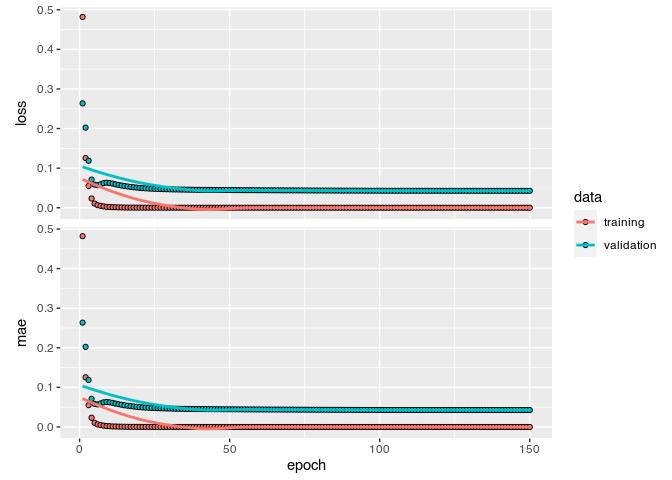
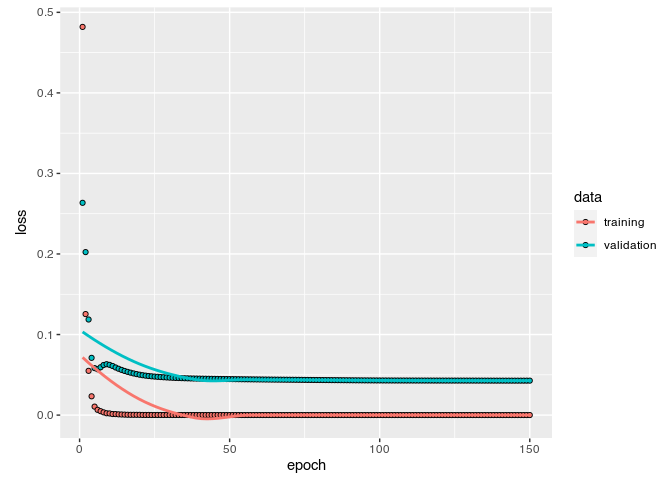
Saving model

diff --git a/model/model0.md b/model/model0.md
@@ -215,7 +215,7 @@ model <- keras_model_sequential(
 model |> compile(
   loss = loss_mean_absolute_error,
   keras::optimizer_adam(learning_rate = .01),
-  metrics = c("mae"), weighted_metrics = list(NULL), 
+  metrics = list(NULL), weighted_metrics = list(NULL), 
 )
 
 # Fitting the model
@@ -235,22 +235,38 @@ plot(history)
 
 ``` r
 # 
-# # Guardando modelo -------------------------------------------------------------
-# if (!dir.exists("modelo-00-keras")) {
-#   dir.create("modelo-00-keras")
-# } else {
-#   file.remove(list.files("modelo-00-keras", all.files = TRUE, full.names = TRUE))
-# }
-# 
-# model$save("modelo-00-keras")
+# Saving the model -------------------------------------------------------------
+if (!dir.exists("modelo-00-keras")) {
+  dir.create("modelo-00-keras")
+} else {
+  file.remove(list.files("modelo-00-keras", all.files = TRUE, full.names = TRUE))
+}
+```
+
+    Warning in file.remove(list.files("modelo-00-keras", all.files = TRUE,
+    full.names = TRUE)): cannot remove file 'modelo-00-keras/.', reason 'Invalid
+    argument'
+
+    Warning in file.remove(list.files("modelo-00-keras", all.files = TRUE,
+    full.names = TRUE)): cannot remove file 'modelo-00-keras/..', reason 'Directory
+    not empty'
+
+    Warning in file.remove(list.files("modelo-00-keras", all.files = TRUE,
+    full.names = TRUE)): cannot remove file 'modelo-00-keras/variables', reason
+    'Directory not empty'
+
+    [1] FALSE FALSE  TRUE  TRUE  TRUE FALSE
+
+``` r
+model$save("modelo-00-keras")
 ```
 
 ``` r
 evaluate(model, x_test, y_test)
 ```
 
-        loss      mae 
-    0.274997 0.274997 
+        loss 
+    0.274997 
 
 ``` r
 p <- predict(model, x = x_test)
